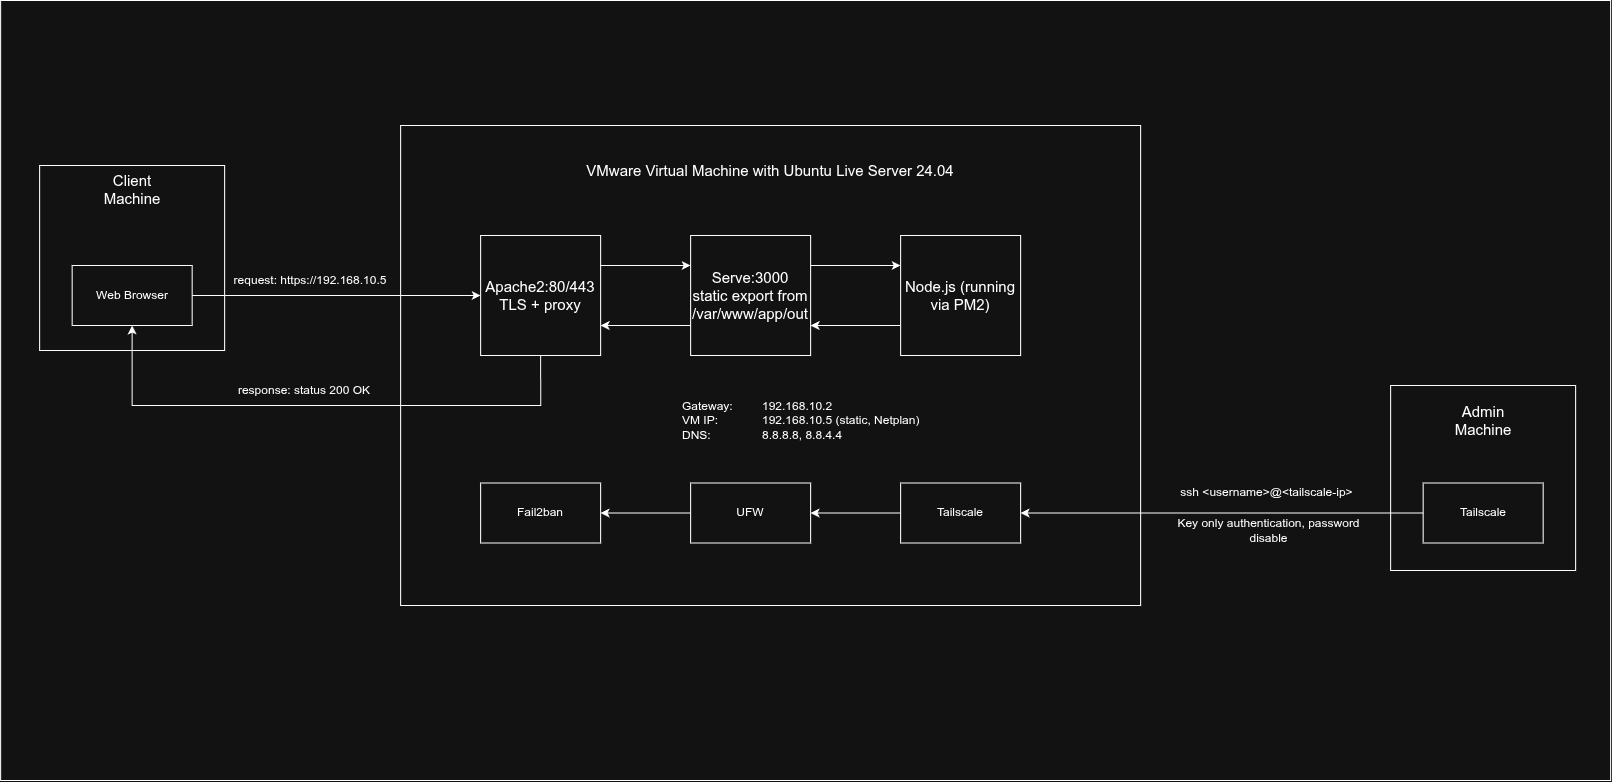
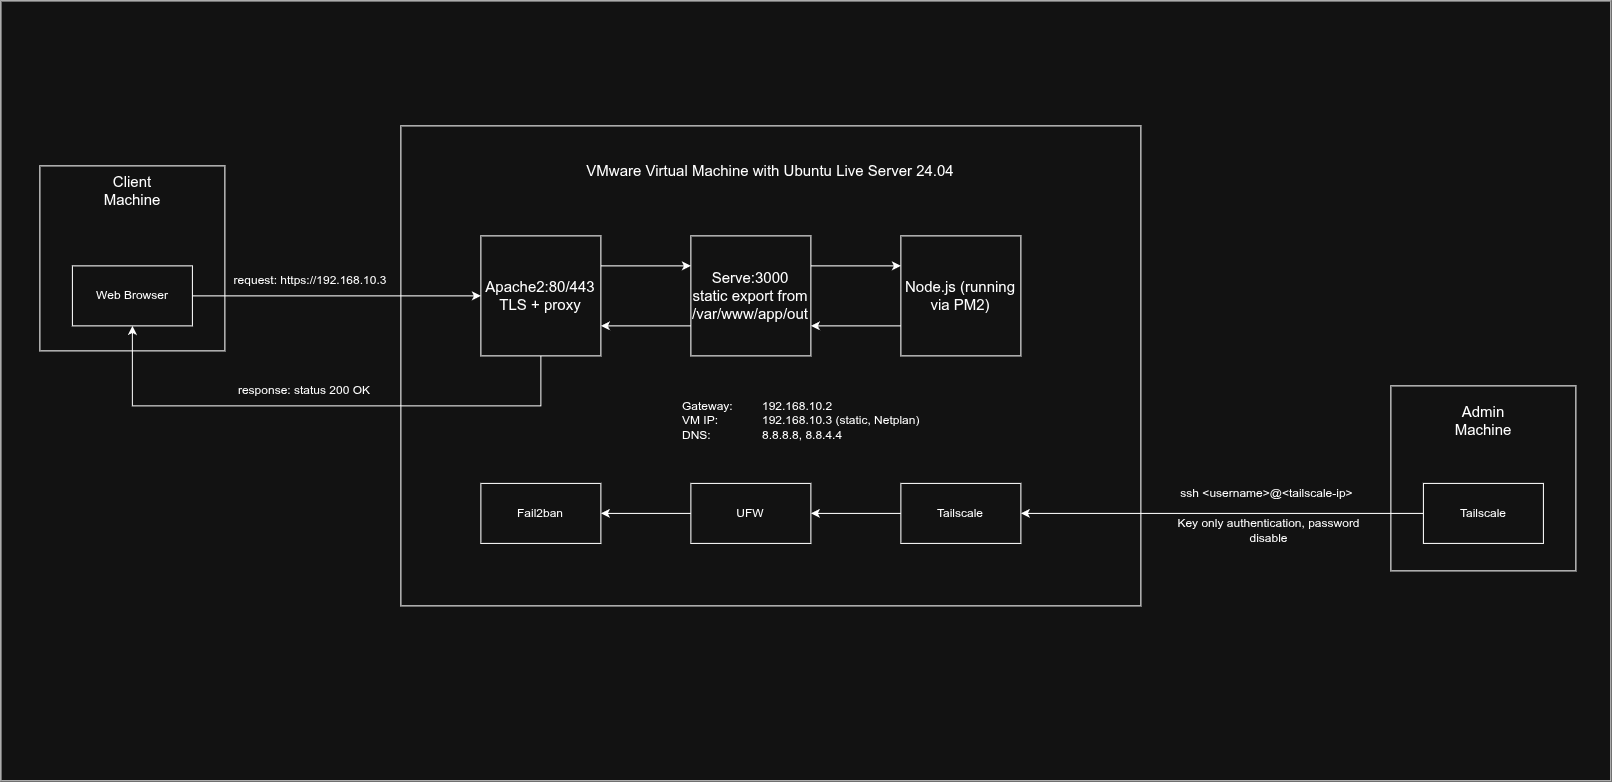
docs: update project book

diff --git a/docs/sem-IV-linux-project.tex b/docs/sem-IV-linux-project.tex
@@ -174,14 +174,15 @@ The objectives of this project are:
 
 \begin{figure}[h]
     \centering
-    \includegraphics[width=0.3\textwidth]{../src/os.png}
+    \fbox{\includegraphics[width=0.25\textwidth]{../src/os.png}}
     \caption{Operaing System \texttt{//Source:WiKi}}
 \end{figure}
 
 The operating system can be divided into several layers: the kernel (which interacts directly with hardware), system libraries (which provide APIs for applications), and the user interface (which allows human interaction). In server environments, reliability, security, and performance are the primary concerns, making Unix-like operating systems - particularly Linux - the dominant choice for web infrastructure.
+
 \begin{figure}[h]
     \centering
-    \includegraphics[width=0.3\textwidth]{../src/kernel.png}
+    \fbox{\includegraphics[width=0.25\textwidth]{../src/kernel.png}}
     \caption{Kernel \texttt{//Source:WiKi}}
 \end{figure}
 
@@ -200,7 +201,7 @@ Common distributions include:
 
 \begin{figure}[h]
     \centering
-    \includegraphics[width=1.0\textwidth]{../src/distro.png}
+    \fbox{\includegraphics[width=0.9\textwidth]{../src/distro.png}}
     \caption{Linux Distro \texttt{//Source:Linux Foundation}}
 \end{figure}
 
@@ -209,11 +210,7 @@ This project uses \textbf{Ubuntu 24.04 LTS} (Noble Numbat) because of its five-y
 \section{GUI and CLI}
 
 \indent A \textbf{Graphical User Interface (GUI)} allows users to interact with the system through windows, icons, and visual elements. While intuitive for desktop use, GUIs consume additional resources and are impractical for remote server management.
-\begin{figure}[h]
-    \centering
-    \includegraphics[width=0.5\textwidth]{../src/gui.png}
-    \caption{GUI \texttt{//Source:WiKi}}
-\end{figure}
+
 A \textbf{Command-Line Interface (CLI)} allows users to interact with the system by typing commands in a terminal. For server administration, the CLI is preferred because:
 
 \begin{itemize}[leftmargin=2em]
@@ -222,9 +219,16 @@ A \textbf{Command-Line Interface (CLI)} allows users to interact with the system
     \item Remote access over SSH works efficiently even on low-bandwidth connections.
     \item System configuration files are text-based and can be edited directly.
 \end{itemize}
+
 \begin{figure}[h]
     \centering
-    \includegraphics[width=0.5\textwidth]{../src/cli.png}
+    \fbox{\includegraphics[width=0.5\textwidth]{../src/gui.png}}
+    \caption{GUI \texttt{//Source:WiKi}}
+\end{figure}
+
+\begin{figure}[h]
+    \centering
+    \fbox{\includegraphics[width=0.5\textwidth]{../src/cli.png}}
     \caption{CLI \texttt{//Source:WiKi}}
 \end{figure}
 
@@ -319,7 +323,7 @@ Tailscale    & WireGuard-based VPN for administrative access \\
 
 \begin{figure}[h]
     \centering
-    \includegraphics[width=\textwidth]{../src/vmware.png}
+    \fbox{\includegraphics[width=0.9\textwidth]{../src/vmware.png}}
     \caption{VMware Workstation Pro 26H2}
 \end{figure}
  \item Now, update and upgrade the newly installed Ubuntu.
@@ -348,7 +352,7 @@ network:
     ens33:
       dhcp4: false
       addresses:
-        - 192.168.10.5/24
+        - 192.168.10.3/24
       routes:
         - to: default
           via: 192.168.10.2
@@ -357,7 +361,7 @@ network:
 \end{lstlisting}
 
 \begin{markdownnote}
-\textbf{Note:} Adjust \texttt{ens33}, \textbf{192.168.10.5}, and \textbf{192.168.10.2} to match your VMware network setup. Check your interface name with \texttt{ip a}.
+\textbf{Note:} Adjust \texttt{ens33}, \textbf{192.168.10.3}, and \textbf{192.168.10.2} to match your VMware network setup. Check your interface name with \texttt{ip a}.
 \end{markdownnote}
 
 \item Test and apply:
@@ -388,7 +392,7 @@ sudo systemctl status ssh
 \item Connect from Host Machine
 Linux/macOS:
 \begin{lstlisting}[language=bash]
-ssh <username>@192.168.10.5
+ssh <username>@192.168.10.3
 \end{lstlisting}
 
 Windows (PowerShell):
@@ -396,7 +400,7 @@ Windows (PowerShell):
 Windows PowerShell
 Copyright (C) Microsoft Coporation. All rights reserved.
 
-PS C:\Users\User> ssh <username>@192.168.10.5
+PS C:\Users\User> ssh <username>@192.168.10.3
 \end{lstlisting}
 
 \item Set Up Key-Based Authentication
@@ -407,11 +411,11 @@ ssh-keygen -t ed25519 -C "your-email@example.com"
 \end{lstlisting}
 \item Copy the public key to the VM:
 \begin{lstlisting}[language=bash]
-ssh-copy-id <username>@192.168.10.5
+ssh-copy-id <username>@192.168.10.3
 \end{lstlisting}
 \item Test key-based login (should NOT ask for password):
 \begin{lstlisting}[language=bash]
-ssh <username>@192.168.10.5
+ssh <username>@192.168.10.3
 \end{lstlisting}
 \end{itemize}
 
@@ -606,7 +610,7 @@ Access is via the VM IP address only, and Let's Encrypt cannot issue certificate
 sudo openssl req -x509 -nodes -days 365 -newkey rsa:2048 \
     -keyout /etc/ssl/private/selfsigned.key \
     -out /etc/ssl/certs/selfsigned.crt \
-    -subj "/CN=192.168.10.5"
+    -subj "/CN=192.168.10.3"
 \end{lstlisting}
 \item Create Virtual Host Configuration
 \begin{lstlisting}[language=bash]
@@ -615,7 +619,7 @@ sudo nano /etc/apache2/sites-available/app.conf
 Add the following:
 \begin{lstlisting}[language=bash]
 <VirtualHost *:80>
-    ServerName 192.168.10.5
+    ServerName 192.168.10.3
 
     # Redirect all HTTP to HTTPS
     RewriteEngine On
@@ -624,7 +628,7 @@ Add the following:
 </VirtualHost>
 
 <VirtualHost *:443>
-    ServerName 192.168.10.5
+    ServerName 192.168.10.3
 
     # SSL Configuration (self-signed certificate generated above)
     SSLEngine on
@@ -829,7 +833,6 @@ sudo fail2ban-client status
 sudo fail2ban-client status sshd
 \end{lstlisting}
 \end{enumerate}
-\newpage
 
 \subsection{Verification}
 Run these checks to confirm everything works:
@@ -865,6 +868,15 @@ sudo fail2ban-client status
 curl -skI https://<vm-ip> | grep -i server
 # Should return: Server: Apache
 \end{lstlisting}
+
+\vspace{1.0cm}
+Now, on your host machine, open a browser and enter \texttt{192.168.10.3} in address bar, then you will see:
+
+\begin{figure}[h]
+    \centering
+    \fbox{\includegraphics[width=0.9\textwidth]{../src/verification.png}}
+    \caption{Verification on client browser}
+\end{figure}
 
 \newpage
 

diff --git a/SERVER_SETUP.md b/SERVER_SETUP.md
@@ -57,7 +57,7 @@ The VM needs a static IP so services remain reachable after reboots.
         ens33:
           dhcp4: false
           addresses:
-            - 192.168.10.5/24
+            - 192.168.10.3/24
           routes:
             - to: default
               via: 192.168.10.2
@@ -65,7 +65,7 @@ The VM needs a static IP so services remain reachable after reboots.
             addresses: [8.8.8.8, 8.8.4.4]
     ```
 
-    > **Note:** Adjust `ens33`, `192.168.10.5`, and `192.168.10.2` to match your VMware network setup. Check your interface name with `ip a`.
+    > **Note:** Adjust `ens33`, `192.168.10.3`, and `192.168.10.2` to match your VMware network setup. Check your interface name with `ip a`.
 
 3. Test and apply:
     ```bash
@@ -93,12 +93,12 @@ sudo systemctl status ssh
 
 **Linux / macOS:**
 ```bash
-ssh <username>@192.168.10.5
+ssh <username>@192.168.10.3
 ```
 
 **Windows (PowerShell):**
 ```powershell
-ssh <username>@192.168.10.5
+ssh <username>@192.168.10.3
 ```
 
 ### Set Up Key-Based Authentication
@@ -111,12 +111,12 @@ ssh <username>@192.168.10.5
 
 2. Copy the public key to the VM:
     ```bash
-    ssh-copy-id <username>@192.168.10.5
+    ssh-copy-id <username>@192.168.10.3
     ```
 
 3. Test key-based login (should NOT ask for password):
     ```bash
-    ssh <username>@192.168.10.5
+    ssh <username>@192.168.10.3
     ```
 
 ### Disable Password Authentication and Root Login (on VM)
@@ -423,7 +423,7 @@ sudo npm install -g pm2
 
 1. Switch to deployer user:
     ```bash
-    su - agmyintmyat
+    su agmyintmyat
     ```
 
 2. Clone the project:

diff --git a/README.md b/README.md
@@ -5,8 +5,8 @@
 [![GitHub issues](https://img.shields.io/github/issues/ammdevl/linux-sysadmin-web-server-project.svg)](https://github.com/ammdevl/linux-sysadmin-web-server-project/issues)
 [![PRs Welcome](https://img.shields.io/badge/PRs-welcome-brightgreen.svg)](http://makeapullrequest.com)
 
-> **Project Status:** 🔵 **Implementation Phase** — *Proposal approved by all members (2026-08-21).*
-> *Deployment follows [SERVER_SETUP.md](SERVER_SETUP.md). See [spec.md](spec.md) for the approved specification.*
+> **Project Status:** 🟢 **Completed** — *All deployment requirements, server hardening, and documentation fulfilled (2026-08-29).*
+> *Deployment follows [SERVER_SETUP.md](SERVER_SETUP.md). See [spec.md](spec.md) for the finalized specification.*
 
 ## Table of Contents
 

diff --git a/slide/SLIDE.md b/slide/SLIDE.md
@@ -28,7 +28,7 @@ section {
 
 ## Linux System Administration Project
 ## Web Server
-###### Presented by Group 2
+###### Presented by
 
 ---
 
